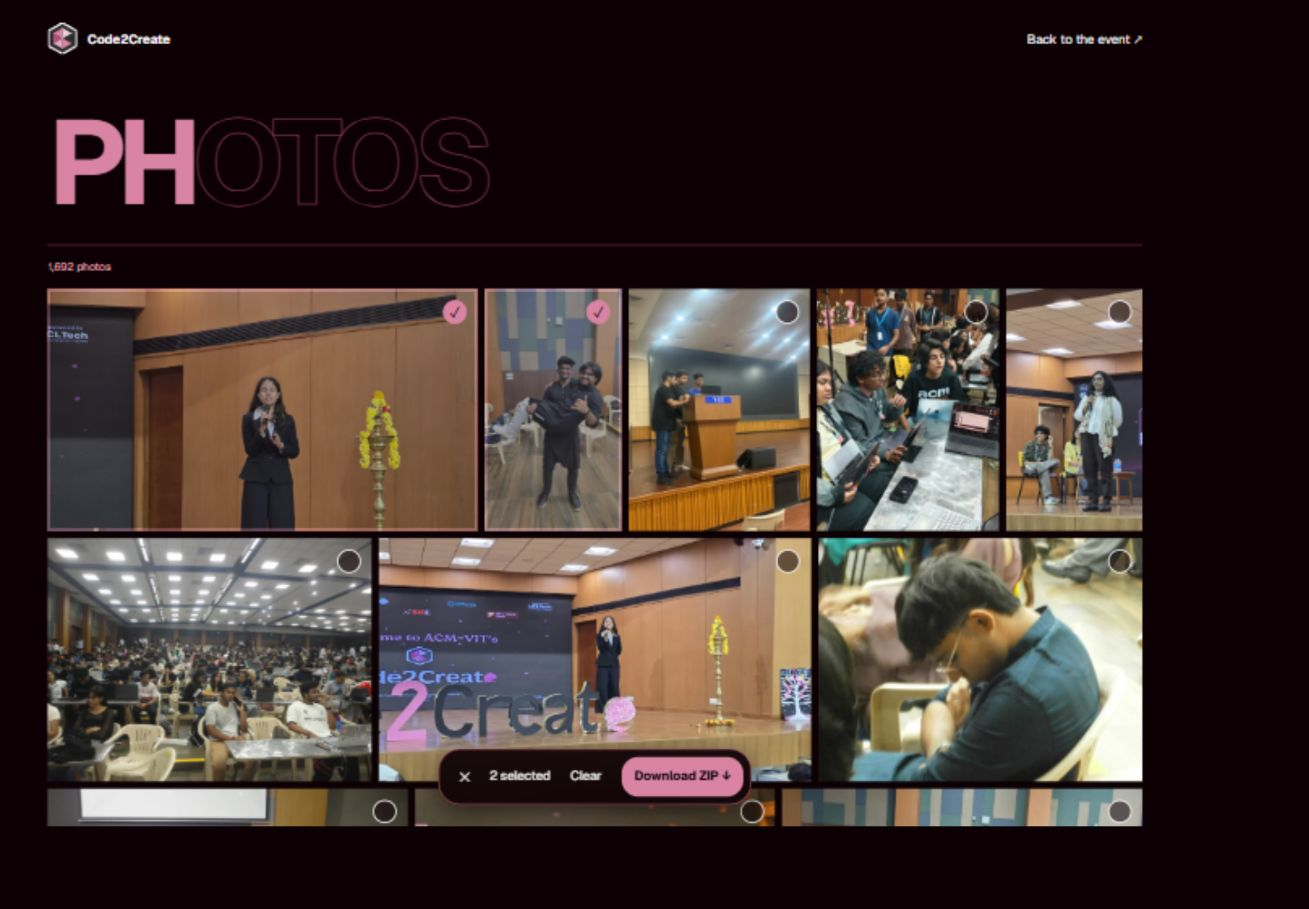
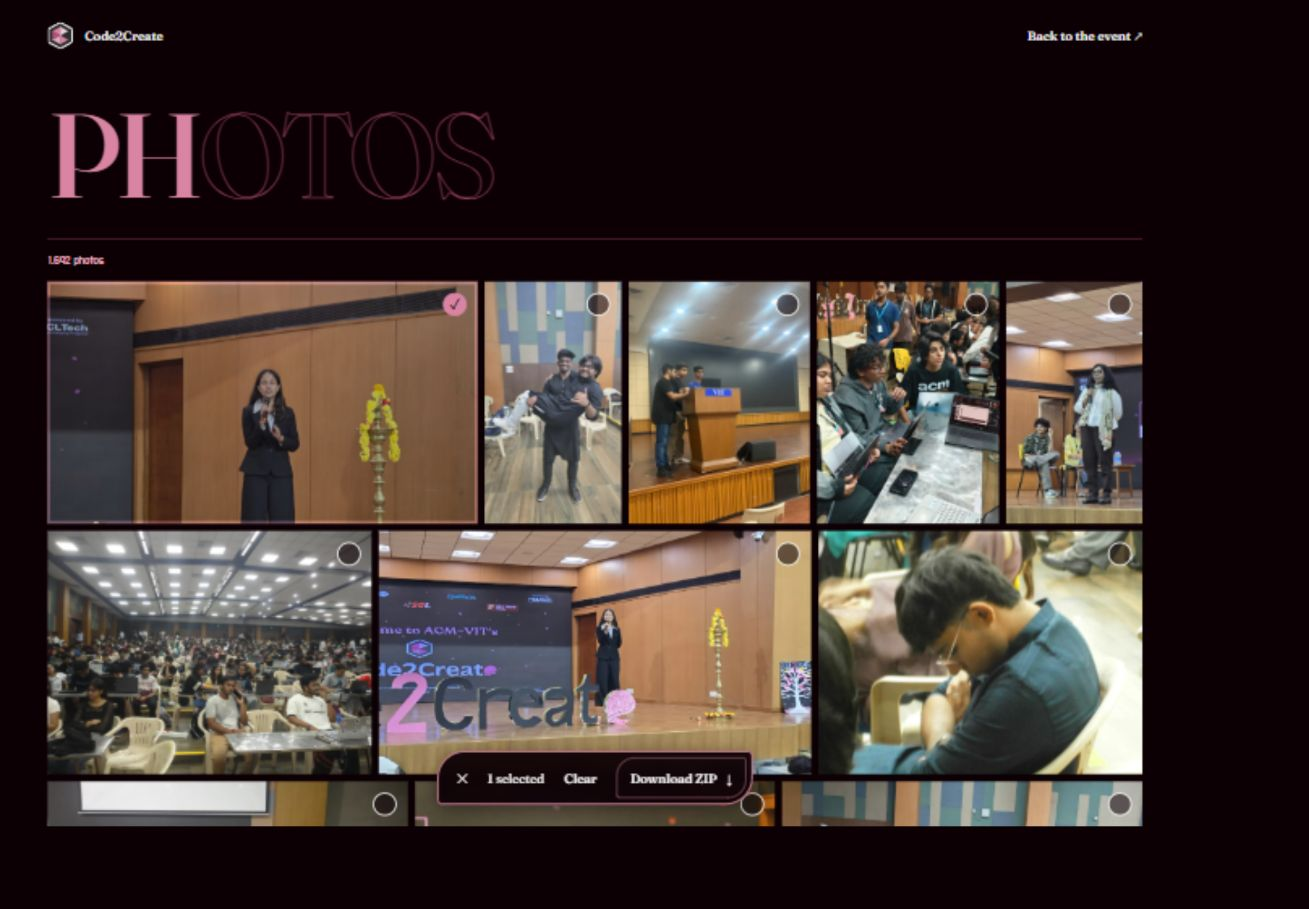
Match photo gallery to landing typography and interaction styles

Changed region(s): [[0.0306, 0.1232, 0.8862, 0.9241], [0.7639, 0.0308, 0.8862, 0.0616], [0.0306, 0.0308, 0.1222, 0.0616]]

diff --git a/apps/landing/src/photos/photos.css b/apps/landing/src/photos/photos.css
@@ -2,7 +2,7 @@
   min-height: 100svh;
   background: var(--ink);
   color: var(--paper-warm);
-  font-family: var(--font-ui);
+  font-family: var(--font-body);
   padding-bottom: 100px;
 }
 .photos-nav,
@@ -12,18 +12,6 @@
   justify-content: space-between;
   gap: 24px;
   padding: 24px clamp(20px, 4vw, 72px);
-}
-.photos-nav a,
-.photos-footer a {
-  color: inherit;
-  text-decoration: none;
-  font-size: 14px;
-}
-.photos-brand {
-  display: inline-flex;
-  align-items: center;
-  gap: 10px;
-  font-weight: 600;
 }
 .photos-main {
   padding: 36px clamp(20px, 4vw, 72px) 60px;
@@ -36,11 +24,11 @@
   margin-bottom: 36px;
 }
 .photos-heading h1 {
-  font-family: var(--font-ui);
+  font-family: var(--font-display);
   font-size: clamp(68px, 10vw, 160px);
-  font-weight: 700;
+  font-weight: 500;
   line-height: 0.85;
-  letter-spacing: -0.07em;
+  letter-spacing: -0.04em;
   color: var(--rose);
   margin: 0;
 }
@@ -72,11 +60,16 @@
 }
 .photos-more button,
 .photos-message button {
+  font-family: var(--font-display);
+  font-weight: 500;
   color: var(--paper);
   background: transparent;
   padding: 12px 24px;
-  border: 1px solid var(--rose-deep);
-  border-radius: 30px;
+  border: 1px solid var(--rose);
+  border-radius: 20px 4px 20px 4px;
+  transition:
+    background 0.25s ease,
+    box-shadow 0.3s ease;
 }
 .photos-more button:hover,
 .photos-message button:hover {
@@ -138,12 +131,16 @@
   transform: translateX(-50%);
   max-width: calc(100vw - 24px);
   width: max-content;
-  padding: 8px;
-  border: 1px solid var(--rose-deep);
-  border-radius: 24px;
-  background: color-mix(in srgb, var(--ink) 92%, transparent);
-  backdrop-filter: blur(20px);
-  box-shadow: 0 8px 32px color-mix(in srgb, var(--ink) 65%, transparent);
+  padding: 6px;
+  border: 2px solid var(--rose);
+  border-radius: 30px 5px 30px 5px;
+  background: color-mix(in srgb, var(--ink) 94%, transparent);
+  backdrop-filter: blur(8px);
+  box-shadow: 0 4px 20px color-mix(in srgb, var(--ink) 50%, transparent);
+  font-family: var(--font-display);
+}
+.photos-dock:not([data-selecting]) {
+  padding: 0;
 }
 .photos-dock-controls {
   display: flex;
@@ -153,21 +150,38 @@
   font-size: 14px;
 }
 .photos-dock button {
+  display: inline-flex;
+  align-items: center;
+  justify-content: center;
+  gap: 10px;
   min-height: 44px;
   padding: 10px 14px;
   border: 0;
-  border-radius: 18px;
+  border-radius: 20px 3px 20px 3px;
   background: transparent;
   color: var(--paper-warm);
   white-space: nowrap;
+  font-weight: 500;
+  transition:
+    color 0.25s ease,
+    background 0.25s ease,
+    box-shadow 0.3s ease;
 }
-.photos-dock button:hover {
-  background: var(--rose-deep);
+.photos-dock button:hover:not(:disabled) {
+  color: var(--rose-light);
+  background: color-mix(in srgb, var(--rose-deep) 35%, transparent);
 }
 .photos-dock button.photos-dock-primary {
-  background: var(--rose);
-  color: var(--ink);
-  font-weight: 600;
+  border: 1px solid var(--rose);
+  color: var(--paper-warm);
+}
+.photos-dock:not([data-selecting]) button.photos-dock-primary {
+  padding: 12px 24px;
+  border: 0;
+  border-radius: 28px 3px 28px 3px;
+}
+.photos-dock button.photos-dock-primary:hover:not(:disabled) {
+  box-shadow: 0 0 14px color-mix(in srgb, var(--rose) 35%, transparent);
 }
 .photos-dock button:disabled {
   opacity: 0.4;
@@ -188,12 +202,6 @@
   .photos-nav {
     padding-top: 18px;
     padding-bottom: 18px;
-  }
-  .photos-brand {
-    font-size: 12px !important;
-  }
-  .photos-nav > a:last-child {
-    font-size: 12px;
   }
   .photos-heading {
     display: block;

diff --git a/apps/landing/src/photos/Photos.tsx b/apps/landing/src/photos/Photos.tsx
@@ -88,11 +88,11 @@ export default function Photos() {
   return (
     <div className="photos-page">
       <header className="photos-nav">
-        <a href="/" className="photos-brand">
+        <a href="/" className="navbar__brand">
           <img src="/assets/svg/logo.svg" alt="" width="34" height="38" />
           Code2Create
         </a>
-        <a href="/">
+        <a href="/" className="landing-link">
           Back to the event <span aria-hidden="true">↗</span>
         </a>
       </header>
@@ -176,10 +176,17 @@ export default function Photos() {
       </main>
       <footer className="photos-footer">
         <span>A little bit of Code2Create, kept forever.</span>
-        <a href="https://acmvit.in">ACM-VIT ↗</a>
+        <a className="landing-link" href="https://acmvit.in">
+          ACM-VIT ↗
+        </a>
       </footer>
       {status === "ready" && photos.length > 0 && index < 0 && (
-        <div className="photos-dock" role="region" aria-label="Photo selection">
+        <div
+          className="photos-dock"
+          data-selecting={selecting || undefined}
+          role="region"
+          aria-label="Photo selection"
+        >
           {downloadMessage && (
             <p className="photos-download-message" role="status">
               {downloadMessage}
@@ -191,7 +198,19 @@ export default function Photos() {
                 className="photos-dock-primary"
                 onClick={() => setSelecting(true)}
               >
-                <span aria-hidden="true">☑</span> Select photos
+                <svg
+                  aria-hidden="true"
+                  width="18"
+                  height="18"
+                  viewBox="0 0 24 24"
+                  fill="none"
+                  stroke="currentColor"
+                  strokeWidth="1.5"
+                >
+                  <rect x="4" y="4" width="16" height="16" rx="3" />
+                  <path d="m8 12 3 3 5-6" />
+                </svg>
+                Select photos
               </button>
             ) : progress !== null ? (
               <>

diff --git a/apps/landing/src/styles/base.css b/apps/landing/src/styles/base.css
@@ -217,13 +217,22 @@ ul {
   color: var(--paper);
 }
 
-.navbar__links a {
+.landing-link {
+  font-family: var(--font-display);
+  font-weight: 600;
+  font-size: clamp(12px, 1.05vw, 15px);
+  color: var(--paper);
+}
+
+.navbar__links a,
+.landing-link {
   position: relative;
   padding-block: 4px;
   transition: color 0.25s ease;
 }
 
-.navbar__links a::after {
+.navbar__links a::after,
+.landing-link::after {
   content: "";
   position: absolute;
   inset: auto 0 0;
@@ -234,11 +243,15 @@ ul {
   transition: transform 0.28s ease;
 }
 
-.navbar__links a:hover {
+.navbar__links a:hover,
+.landing-link:hover,
+.landing-link:focus-visible {
   color: var(--rose-light);
 }
 
-.navbar__links a:hover::after {
+.navbar__links a:hover::after,
+.landing-link:hover::after,
+.landing-link:focus-visible::after {
   transform: scaleX(1);
 }
 
